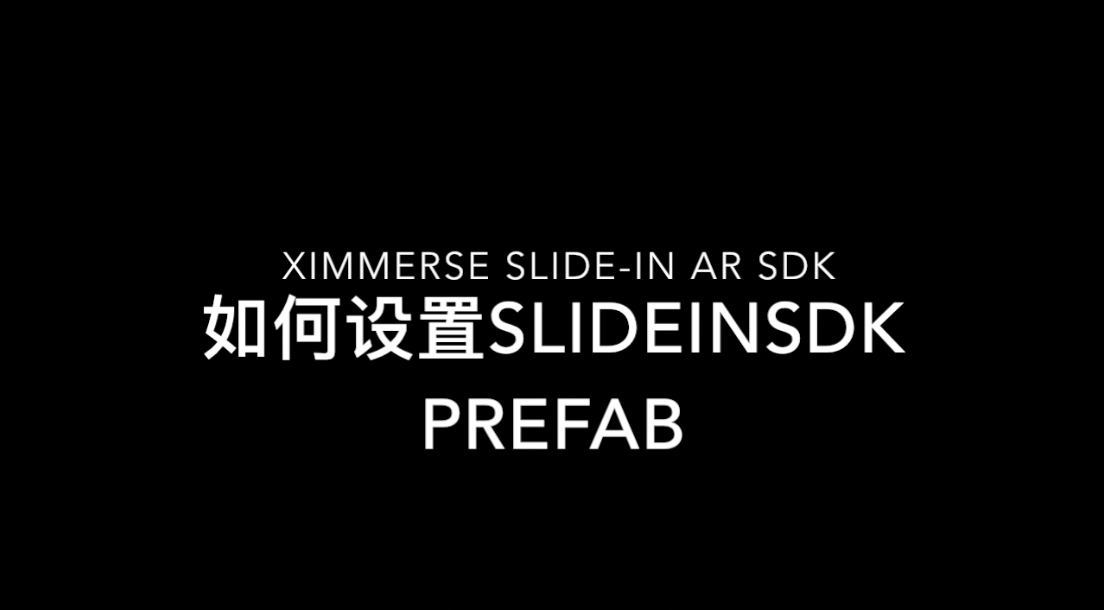
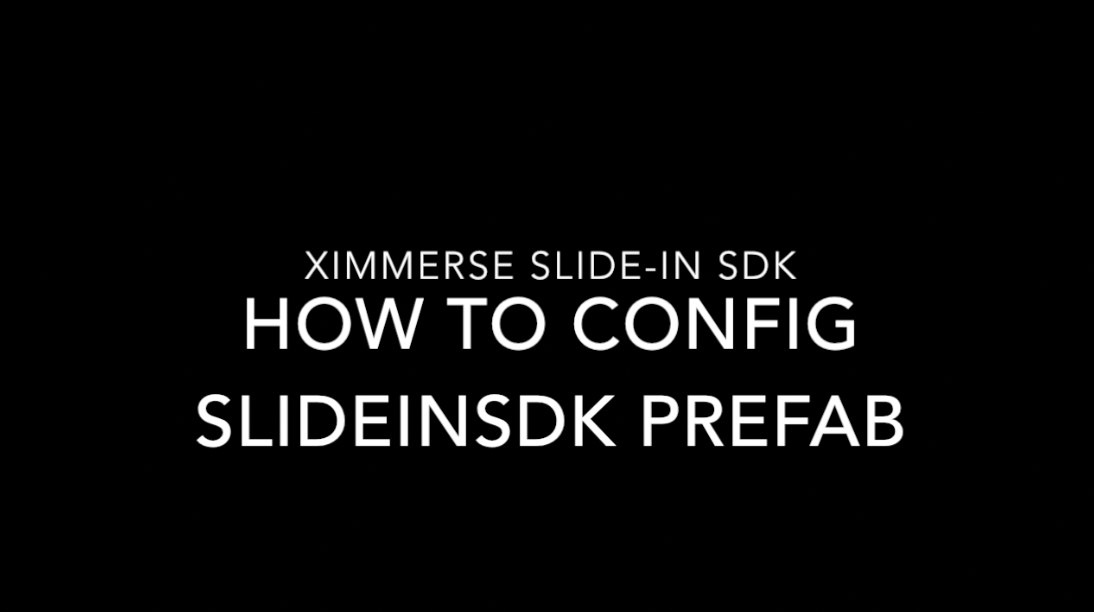
Update slide_in_sdk_prefab tutorial image and video tutorial.

Changed region(s): [[0.1865, 0.4049, 0.8391, 0.5918], [0.1554, 0.623, 0.8391, 0.7475]]

diff --git a/source/index.html.md b/source/index.html.md
@@ -60,8 +60,8 @@ SDK comes with a few demos for developers to use as refferences. The following s
 [![IMAGE ALT TEXT](images/hello_world_marker_tracking.png)](http://v.youku.com/v_show/id_XMzU2OTM2ODkzMg==.html?spm=a2h3j.8428770.3416059.1)
 
 ## How to Config SlideInSDK Prefab
-[![IMAGE ALT TEXT](images/slide_in_sdk_prefab_tutorial.png)](http://v.youku.com/v_show/id_XMzU3NzY2OTI0NA==.html?spm=a2h3j.8428770.3416059.1)
-
+[![IMAGE ALT TEXT](images/slide_in_sdk_prefab_tutorial.png)](https://youtu.be/iReTtQUGo54)
+ 
 
 # API Documentation
 
